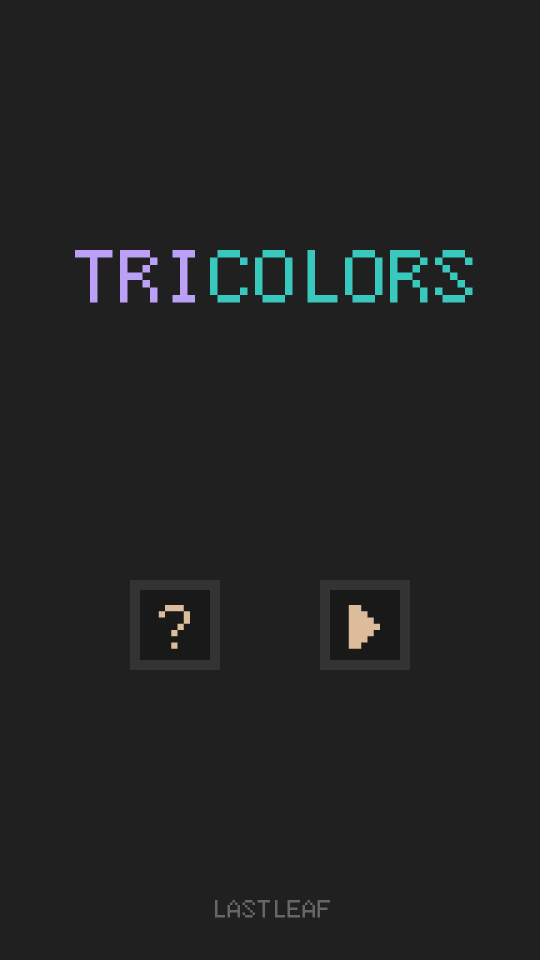
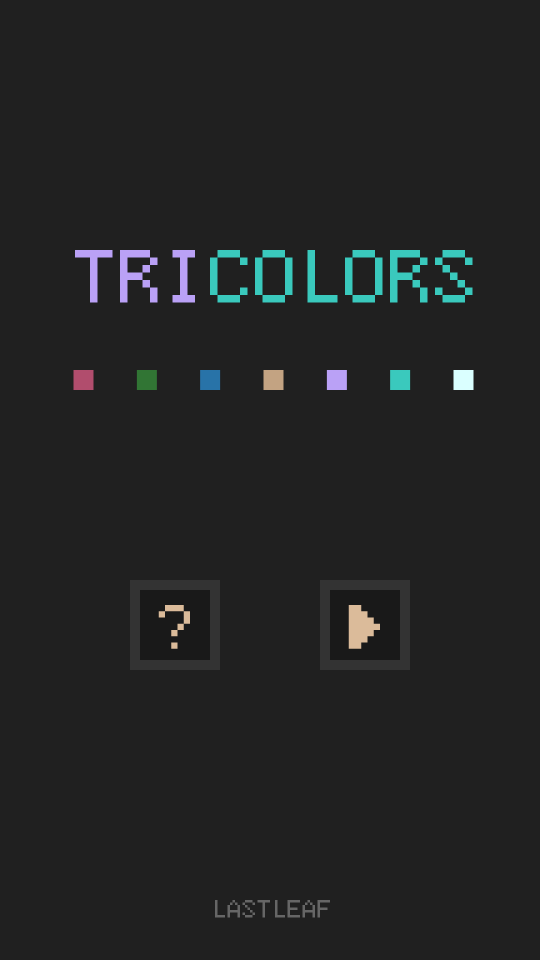
Updated

diff --git a/src/cover.js b/src/cover.js
@@ -11,13 +11,33 @@ import { createTexts } from './texts'
 export default (stage, container) => {
   let selectCb = null
 
+  const titleLineContainer = stage.createContainer().pos(12, 240)
+  const block1 = stage.createRect(0, 0, 40, 40).color(...COLOR_R_ARR).blendMode('SRC_ALPHA', 'ONE')
+  const block2 = stage.createRect(760 * 1 / 6, 0, 40, 40).color(...COLOR_G_ARR).blendMode('SRC_ALPHA', 'ONE')
+  const block3 = stage.createRect(760 * 2 / 6, 0, 40, 40).color(...COLOR_B_ARR).blendMode('SRC_ALPHA', 'ONE')
+  const block41 = stage.createRect(760 * 3 / 6, 0, 40, 40).color(...COLOR_R_ARR).blendMode('SRC_ALPHA', 'ONE')
+  const block42 = stage.createRect(760 * 3 / 6, 0, 40, 40).color(...COLOR_G_ARR).blendMode('SRC_ALPHA', 'ONE')
+  const block51 = stage.createRect(760 * 4 / 6, 0, 40, 40).color(...COLOR_R_ARR).blendMode('SRC_ALPHA', 'ONE')
+  const block52 = stage.createRect(760 * 4 / 6, 0, 40, 40).color(...COLOR_B_ARR).blendMode('SRC_ALPHA', 'ONE')
+  const block61 = stage.createRect(760 * 5 / 6, 0, 40, 40).color(...COLOR_G_ARR).blendMode('SRC_ALPHA', 'ONE')
+  const block62 = stage.createRect(760 * 5 / 6, 0, 40, 40).color(...COLOR_B_ARR).blendMode('SRC_ALPHA', 'ONE')
+  const block71 = stage.createRect(760, 0, 40, 40).color(...COLOR_R_ARR).blendMode('SRC_ALPHA', 'ONE')
+  const block72 = stage.createRect(760, 0, 40, 40).color(...COLOR_G_ARR).blendMode('SRC_ALPHA', 'ONE')
+  const block73 = stage.createRect(760, 0, 40, 40).color(...COLOR_B_ARR).blendMode('SRC_ALPHA', 'ONE')
+  titleLineContainer.append(block1).append(block2).append(block3)
+    .append(block41).append(block42)
+    .append(block51).append(block52)
+    .append(block61).append(block62)
+    .append(block71).append(block72).append(block73)
+
   const titleContainer = stage.createContainer().pos(555, 300)
   const title1 = createTexts(stage, 'TRI', 120, COLOR_R_ARR).blendMode('SRC_ALPHA', 'ONE')
   const title2 = createTexts(stage, 'TRI', 120, COLOR_B_ARR).blendMode('SRC_ALPHA', 'ONE')
   const title3 = createTexts(stage, 'COLORS', 120, COLOR_G_ARR).pos(270, 0).blendMode('SRC_ALPHA', 'ONE')
   const title4 = createTexts(stage, 'COLORS', 120, COLOR_B_ARR).pos(270, 0).blendMode('SRC_ALPHA', 'ONE')
-  titleContainer.append(title1).append(title2).append(title3).append(title4)
+  titleContainer.append(title1).append(title2).append(title3).append(title4).append(titleLineContainer)
   container.append(titleContainer)
+
 
   const tutorialContainer = stage.createContainer().pos(760, 600)
   const tutorialButton = createButton(stage, 140, 140, 20, () => {

diff --git a/README.md b/README.md
@@ -27,6 +27,15 @@ Click the "?" button in game cover for the tutorial.
 ![f](screenshots/2.png)
 ![f](screenshots/3.png)
 
+## CREDIT
+
+This game is made by LastLeaf (Fu Boquan), for GitHub Game Off 2017.
+
+My GitHub Game Off 2015 and 2016 games (with different teammates) are also available:
+
+* [A Lighted Story](http://mistymiracle.github.io/a-lighted-story/) - the Game Off 2015 game
+* [Boxie Coody](http://lastflower.github.io/game-off-2016) - the Game Off 2016 game
+
 ## How to Build this game
 
 This game is implemented with WebGL and common HTML5 technologies. You need `nodejs` toolchains to build this game.
@@ -36,8 +45,6 @@ This game is implemented with WebGL and common HTML5 technologies. You need `nod
 1. Run `npm run build`.
 1. Open `index.html` in your browser!
 
-## CREDIT & LISENCE
-
-Copyright 2017 Fu Boquan (LastLeaf)
+## LISENCE
 
 The content of this game is under [Creative Commons Attribution-ShareAlike 4.0 International](https://creativecommons.org/licenses/by-sa/4.0/). The software of this game is under [MIT LICENSE](https://opensource.org/licenses/mit-license.html).
